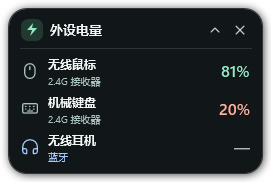
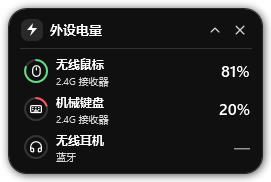
Use monochrome capsule chrome with per-device battery rings

diff --git a/FloatingWindow.xaml b/FloatingWindow.xaml
@@ -5,19 +5,28 @@
         WindowStyle="None" ResizeMode="NoResize" AllowsTransparency="True"
         Background="Transparent" ShowInTaskbar="False" ShowActivated="False" Topmost="True"
         WindowStartupLocation="Manual" UseLayoutRounding="True"
-        FontFamily="Segoe UI, Microsoft YaHei UI" Foreground="#F1F6F5"
+        FontFamily="Segoe UI, Microsoft YaHei UI" Foreground="#FFFFFF"
         KeyboardNavigation.TabNavigation="Cycle">
     <Window.Resources>
-        <SolidColorBrush x:Key="PillAccent" Color="#93E9C5" />
+        <SolidColorBrush x:Key="PillHighlight" Color="#FFFFFF" />
         <Geometry x:Key="GlyphKeyboard">M 3,5 L 21,5 Q 23,5 23,7 L 23,17 Q 23,19 21,19 L 3,19 Q 1,19 1,17 L 1,7 Q 1,5 3,5 Z M 5,9 L 6,9 M 11,9 L 12,9 M 17,9 L 18,9 M 5,13 L 6,13 M 11,13 L 12,13 M 17,13 L 18,13 M 8,16 L 16,16</Geometry>
         <Geometry x:Key="GlyphMouse">M 12,2 A 7,7 0 0 1 19,9 L 19,15 A 7,7 0 0 1 5,15 L 5,9 A 7,7 0 0 1 12,2 Z M 12,6 L 12,10</Geometry>
         <Geometry x:Key="GlyphHeadphones">M 3,16 L 3,11 A 9,9 0 0 1 21,11 L 21,16 M 3,13 L 6,13 Q 8,13 8,15 L 8,19 L 6,19 Q 3,19 3,16 Z M 21,13 L 18,13 Q 16,13 16,15 L 16,19 L 18,19 Q 21,19 21,16 Z</Geometry>
         <Geometry x:Key="GlyphController">M 6,7 L 18,7 Q 20,7 21,10 L 23,16 Q 24,21 20,20 L 15,16 L 9,16 L 4,20 Q 0,21 1,16 L 3,10 Q 4,7 6,7 Z M 6,12 L 10,12 M 8,10 L 8,14 M 16,11 L 16,11.3 M 19,13 L 19,13.3</Geometry>
         <Geometry x:Key="GlyphOther">M 12,3 L 21,8 L 21,16 L 12,21 L 3,16 L 3,8 Z M 3,8 L 12,13 L 21,8 M 12,13 L 12,21</Geometry>
-        <ControlTemplate x:Key="DeviceGlyph" TargetType="ContentControl">
-            <Path x:Name="Glyph" Data="{StaticResource GlyphOther}" Stretch="Uniform"
-                  Stroke="{TemplateBinding Foreground}" StrokeThickness="1.3" StrokeLineJoin="Round"
-                  StrokeStartLineCap="Round" StrokeEndLineCap="Round" />
+        <ControlTemplate x:Key="DeviceRing" TargetType="ContentControl">
+            <Viewbox Stretch="Uniform">
+                <Grid Width="28" Height="28">
+                    <Ellipse x:Name="RingTrack" Width="24" Height="24" Stroke="{Binding RingTrack}" StrokeThickness="2"
+                             HorizontalAlignment="Center" VerticalAlignment="Center" />
+                    <Path x:Name="RingArc" Data="{Binding RingArc}" Stroke="{Binding RingTone}" StrokeThickness="2"
+                          StrokeStartLineCap="Round" StrokeEndLineCap="Round" Stretch="None" />
+                    <Path x:Name="Glyph" Data="{StaticResource GlyphOther}" Width="12" Height="12" Stretch="Uniform"
+                          Stroke="#FFFFFF" StrokeThickness="1.25" StrokeLineJoin="Round"
+                          StrokeStartLineCap="Round" StrokeEndLineCap="Round"
+                          HorizontalAlignment="Center" VerticalAlignment="Center" />
+                </Grid>
+            </Viewbox>
             <ControlTemplate.Triggers>
                 <DataTrigger Binding="{Binding Kind}" Value="keyboard">
                     <Setter TargetName="Glyph" Property="Data" Value="{StaticResource GlyphKeyboard}" />
@@ -49,13 +58,13 @@
                         </Border>
                         <ControlTemplate.Triggers>
                             <Trigger Property="IsMouseOver" Value="True">
-                                <Setter Property="Background" Value="#293335" />
+                                <Setter Property="Background" Value="#252525" />
                             </Trigger>
                             <Trigger Property="IsPressed" Value="True">
-                                <Setter Property="Background" Value="#3B4C4B" />
+                                <Setter Property="Background" Value="#3E3E3E" />
                             </Trigger>
                             <Trigger Property="IsKeyboardFocused" Value="True">
-                                <Setter Property="BorderBrush" Value="{StaticResource PillAccent}" />
+                                <Setter Property="BorderBrush" Value="{StaticResource PillHighlight}" />
                             </Trigger>
                         </ControlTemplate.Triggers>
                     </ControlTemplate>
@@ -63,21 +72,21 @@
             </Setter>
         </Style>
     </Window.Resources>
-    <Border x:Name="Surface" Margin="8" BorderBrush="#313739" BorderThickness="1" ClipToBounds="False">
+    <Border x:Name="Surface" Margin="8" BorderBrush="#292929" BorderThickness="1" ClipToBounds="False">
         <Border.Style>
             <Style TargetType="Border">
-                <Setter Property="Background" Value="#0A0D0F" />
+                <Setter Property="Background" Value="#000000" />
                 <Setter Property="CornerRadius" Value="20" />
                 <Style.Triggers>
                     <DataTrigger Binding="{Binding Visibility, ElementName=ExpandedView}" Value="Visible">
-                        <Setter Property="Background" Value="#111719" />
+                        <Setter Property="Background" Value="#101010" />
                         <Setter Property="CornerRadius" Value="18" />
                     </DataTrigger>
                 </Style.Triggers>
             </Style>
         </Border.Style>
         <Border.Effect>
-            <DropShadowEffect Color="#040808" BlurRadius="13" ShadowDepth="2" Opacity="0.72" />
+            <DropShadowEffect Color="#000000" BlurRadius="13" ShadowDepth="2" Opacity="0.72" />
         </Border.Effect>
         <Grid>
             <Button x:Name="CompactView" Height="38" Cursor="Hand"
@@ -93,10 +102,10 @@
                         </Border>
                         <ControlTemplate.Triggers>
                             <Trigger Property="IsMouseOver" Value="True">
-                                <Setter TargetName="Hit" Property="Background" Value="#101719" />
+                                <Setter TargetName="Hit" Property="Background" Value="#111111" />
                             </Trigger>
                             <Trigger Property="IsKeyboardFocused" Value="True">
-                                <Setter TargetName="Hit" Property="BorderBrush" Value="{StaticResource PillAccent}" />
+                                <Setter TargetName="Hit" Property="BorderBrush" Value="{StaticResource PillHighlight}" />
                             </Trigger>
                         </ControlTemplate.Triggers>
                     </ControlTemplate>
@@ -116,9 +125,9 @@
                             <DataTemplate>
                                 <StackPanel Orientation="Horizontal" HorizontalAlignment="Center" ToolTip="{Binding Description}"
                                             AutomationProperties.Name="{Binding Description}">
-                                    <ContentControl Template="{StaticResource DeviceGlyph}" Focusable="False"
-                                                    Foreground="{Binding ConnectionTone}" Width="14" Height="14"
-                                                    Margin="0,0,5,0" VerticalAlignment="Center" />
+                                    <ContentControl Template="{StaticResource DeviceRing}" Focusable="False"
+                                                    Width="27" Height="27"
+                                                    Margin="0,0,4,0" VerticalAlignment="Center" />
                                     <TextBlock Text="{Binding Battery}" Foreground="{Binding BatteryTone}"
                                                FontSize="14" FontWeight="SemiBold" VerticalAlignment="Center" />
                                 </StackPanel>
@@ -127,12 +136,12 @@
                     </ItemsControl>
                     <StackPanel Orientation="Horizontal" HorizontalAlignment="Center" VerticalAlignment="Center"
                                 Visibility="{Binding Visibility, ElementName=CompactStatus}">
-                        <Path Data="M 8,1 L 2,8 L 7,8 L 5,14 L 12,6 L 7,6 Z" Fill="{StaticResource PillAccent}"
+                        <Path Data="M 8,1 L 2,8 L 7,8 L 5,14 L 12,6 L 7,6 Z" Fill="{StaticResource PillHighlight}"
                               Width="12" Height="13" Stretch="Uniform" VerticalAlignment="Center" Margin="0,0,7,0" />
-                        <TextBlock x:Name="CompactStatus" Text="正在读取电量…" Foreground="#ABB6B9"
+                        <TextBlock x:Name="CompactStatus" Text="正在读取电量…" Foreground="#ADADAD"
                                    FontSize="12" VerticalAlignment="Center" />
                     </StackPanel>
-                    <Path Grid.Column="1" Data="M 1,2 L 5,6 L 9,2" Stroke="#899A9C"
+                    <Path Grid.Column="1" Data="M 1,2 L 5,6 L 9,2" Stroke="#A3A3A3"
                           StrokeThickness="1.3" StrokeStartLineCap="Round" StrokeEndLineCap="Round"
                           StrokeLineJoin="Round" Stretch="None" HorizontalAlignment="Right" VerticalAlignment="Center" />
                 </Grid>
@@ -151,26 +160,26 @@
                         <ColumnDefinition Width="25" />
                         <ColumnDefinition Width="25" />
                     </Grid.ColumnDefinitions>
-                    <Border Width="22" Height="22" CornerRadius="7" Background="#213931">
-                        <Path Data="M 8,1 L 2,8 L 7,8 L 5,14 L 12,6 L 7,6 Z" Fill="{StaticResource PillAccent}"
+                    <Border Width="22" Height="22" CornerRadius="7" Background="#292929">
+                        <Path Data="M 8,1 L 2,8 L 7,8 L 5,14 L 12,6 L 7,6 Z" Fill="{StaticResource PillHighlight}"
                               Width="11" Height="13" Stretch="Uniform" HorizontalAlignment="Center" VerticalAlignment="Center" />
                     </Border>
                     <TextBlock Grid.Column="1" Text="外设电量" FontSize="13" FontWeight="SemiBold"
                                VerticalAlignment="Center" Margin="6,0,0,0" />
                     <Button x:Name="CollapseButton" Grid.Column="2" Style="{StaticResource PanelControl}" ToolTip="收起面板"
                             AutomationProperties.Name="收起面板" Click="CollapseClick">
-                        <Path Data="M 1,7 L 5,3 L 9,7" Stroke="#C6D0D0" StrokeThickness="1.3"
+                        <Path Data="M 1,7 L 5,3 L 9,7" Stroke="#DDDDDD" StrokeThickness="1.3"
                               StrokeStartLineCap="Round" StrokeEndLineCap="Round" StrokeLineJoin="Round" Stretch="None" />
                     </Button>
                     <Button Grid.Column="3" Style="{StaticResource PanelControl}" ToolTip="隐藏悬浮窗"
                             AutomationProperties.Name="隐藏悬浮窗" Click="HideClick">
-                        <Path Data="M 2,2 L 10,10 M 10,2 L 2,10" Stroke="#C6D0D0" StrokeThickness="1.25"
+                        <Path Data="M 2,2 L 10,10 M 10,2 L 2,10" Stroke="#DDDDDD" StrokeThickness="1.25"
                               StrokeStartLineCap="Round" StrokeEndLineCap="Round" Stretch="None" />
                     </Button>
                 </Grid>
-                <Border Grid.Row="1" Height="1" Background="#2B3436" Margin="0,6,0,3" />
+                <Border Grid.Row="1" Height="1" Background="#323232" Margin="0,6,0,3" />
                 <TextBlock Grid.Row="2" x:Name="Status" Margin="2,6,1,6" Text="正在读取电量…"
-                           Foreground="#A9B7BD" FontSize="12" AutomationProperties.LiveSetting="Polite" />
+                           Foreground="#A9A9A9" FontSize="12" AutomationProperties.LiveSetting="Polite" />
                 <ScrollViewer Grid.Row="2" x:Name="DeviceScroll" MaxHeight="195"
                               VerticalScrollBarVisibility="Auto" HorizontalScrollBarVisibility="Disabled"
                               Visibility="Collapsed" AutomationProperties.Name="无线设备电量">
@@ -189,7 +198,7 @@
                             <Setter Property="Template">
                                 <Setter.Value>
                                     <ControlTemplate TargetType="ScrollBar">
-                                        <Border Background="#243032" CornerRadius="4" Margin="1,1,0,1">
+                                        <Border Background="#222222" CornerRadius="4" Margin="1,1,0,1">
                                             <Track x:Name="PART_Track" IsDirectionReversed="True" Orientation="Vertical">
                                                 <Track.DecreaseRepeatButton>
                                                     <RepeatButton Command="{x:Static ScrollBar.PageUpCommand}" Style="{StaticResource TrackSpace}" />
@@ -198,10 +207,10 @@
                                                     <Thumb>
                                                         <Thumb.Template>
                                                             <ControlTemplate TargetType="Thumb">
-                                                                <Border Background="#5B7679" CornerRadius="4" x:Name="Handle" MinHeight="18" />
+                                                                <Border Background="#717171" CornerRadius="4" x:Name="Handle" MinHeight="18" />
                                                                 <ControlTemplate.Triggers>
                                                                     <Trigger Property="IsMouseOver" Value="True">
-                                                                        <Setter TargetName="Handle" Property="Background" Value="#849EA0" />
+                                                                        <Setter TargetName="Handle" Property="Background" Value="#A0A0A0" />
                                                                     </Trigger>
                                                                 </ControlTemplate.Triggers>
                                                             </ControlTemplate>
@@ -223,12 +232,12 @@
                             <DataTemplate>
                                 <Grid Height="38" Margin="2,0" ToolTip="{Binding Description}">
                                     <Grid.ColumnDefinitions>
-                                        <ColumnDefinition Width="21" />
+                                        <ColumnDefinition Width="29" />
                                         <ColumnDefinition Width="*" />
                                         <ColumnDefinition Width="50" />
                                     </Grid.ColumnDefinitions>
-                                    <ContentControl Template="{StaticResource DeviceGlyph}" Focusable="False"
-                                                    Foreground="{Binding ConnectionTone}" Width="16" Height="16"
+                                    <ContentControl Template="{StaticResource DeviceRing}" Focusable="False"
+                                                    Width="28" Height="28"
                                                     HorizontalAlignment="Left" VerticalAlignment="Center" />
                                     <StackPanel Grid.Column="1" Margin="5,0,4,0" VerticalAlignment="Center">
                                         <TextBlock Text="{Binding Name}" FontSize="12" FontWeight="SemiBold"

diff --git a/FloatingWindow.xaml.cs b/FloatingWindow.xaml.cs
@@ -6,6 +6,7 @@ using System.Runtime.InteropServices;
 using System.Windows;
 using System.Windows.Input;
 using System.Windows.Interop;
+using System.Windows.Media;
 using System.Windows.Media.Animation;
 using System.Windows.Threading;
 using DrawingPoint = System.Drawing.Point;
@@ -298,17 +299,51 @@ public partial class FloatingWindow : Window
     private static DeviceRow ToRow(BatteryDevice device)
     {
         int? value = device.Percent is >= 0 and <= 100 ? device.Percent : null;
-        string batteryLabel = value is int percent ? $"电量 {percent}%" : "电量未知";
+        string batteryLabel = value switch
+        {
+            null => "电量未知",
+            <= 20 => $"低电量 {value}%",
+            _ => $"电量 {value}%"
+        };
         string connection = device.Connection == "2.4G 接收器" ? "2.4G" : device.Connection;
-        return new DeviceRow(device.Name, device.Kind, connection, device.Connection == "蓝牙" ? "#A4C9FA" : "#AAC2BD",
+        return new DeviceRow(device.Name, device.Kind, connection, "#D6D6D6",
             value is int level ? $"{level}%" : "—",
-            value switch { null => "#A9B7BD", <= 20 => "#FFAE99", _ => "#93E9C5" },
-            batteryLabel, $"{device.Name} · {device.Connection} · {batteryLabel}");
+            value.HasValue ? "#FFFFFF" : "#969696",
+            batteryLabel, $"{device.Name} · {device.Connection} · {batteryLabel}",
+            BatteryArc(value), value switch { null => "#777777", <= 20 => "#FF565F", _ => "#62DC86" },
+            value == 0 ? "#7F2C33" : "#353535");
+    }
+
+    private static Geometry BatteryArc(int? value)
+    {
+        const double center = 14;
+        const double radius = 11;
+        if (value is not int percent || percent == 0)
+            return Geometry.Empty;
+
+        if (percent == 100)
+        {
+            var circle = new EllipseGeometry(new Point(center, center), radius, radius);
+            circle.Freeze();
+            return circle;
+        }
+
+        double angle = percent / 100d * Math.Tau;
+        var end = new Point(center + radius * Math.Sin(angle), center - radius * Math.Cos(angle));
+        var arc = new StreamGeometry();
+        using (var path = arc.Open())
+        {
+            path.BeginFigure(new Point(center, center - radius), isFilled: false, isClosed: false);
+            path.ArcTo(end, new Size(radius, radius), rotationAngle: 0,
+                isLargeArc: percent > 50, SweepDirection.Clockwise, isStroked: true, isSmoothJoin: false);
+        }
+        arc.Freeze();
+        return arc;
     }
 
     private sealed record DeviceRow(
         string Name, string Kind, string Connection, string ConnectionTone, string Battery, string BatteryTone,
-        string BatteryLabel, string Description);
+        string BatteryLabel, string Description, Geometry RingArc, string RingTone, string RingTrack);
 
     private sealed record PointerPress(UIElement Handle, DrawingPoint Cursor, DrawingPoint WindowOrigin);
 

diff --git a/README.md b/README.md
@@ -12,13 +12,13 @@
 
 ## 桌面悬浮窗与启动选项
 
-<img src="docs/widget-compact.png" width="192" alt="收起时的黑色电量胶囊" />
+<img src="docs/widget-compact.png" width="192" alt="黑色胶囊，设备图标外环显示电量进度" />
 
 <img src="docs/widget.png" width="280" alt="点开胶囊后展开的设备电量列表" />
 
 打开面板右上角的「更多选项」，或右键点击托盘图标，即可使用以下功能。
 
-- **显示桌面悬浮窗**。收起时，黑色胶囊显示最多两台设备的电量。点击胶囊可查看完整列表与连接方式，再点顶部的箭头收起。拖动胶囊或展开后的顶部可移动，程序会记住位置。展开后可点击关闭按钮隐藏悬浮窗。
+- **显示桌面悬浮窗**。收起时，黑色胶囊显示最多两台设备的电量。每个设备图标外的圆环按电量填充，20% 及以下为红色，20% 以上为绿色，未知电量显示灰色空环。点击胶囊可查看完整列表与连接方式，再点顶部的箭头收起。拖动胶囊或展开后的顶部可移动，程序会记住位置。
 - **创建桌面快捷方式**。在当前用户的桌面添加「外设电量」图标，双击即可打开面板。
 - **开机自启动**。开启后，登录 Windows 时程序在托盘启动，也会恢复已开启的悬浮窗。默认关闭。
 
